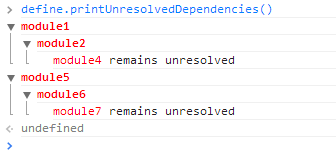
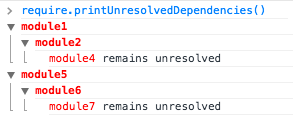
Move define methods to require to be spec-compatible

Changed region(s): [[0.0, 0.0, 1.0, 0.5385], [0.0, 0.5641, 0.7679, 1.0]]

diff --git a/ferdinand.js b/ferdinand.js
@@ -1,5 +1,5 @@
 /**
- * FerdinandJS - v0.5.2 - AMD-lite JavaScript module resolver
+ * FerdinandJS - v0.6.0 - AMD-lite JavaScript module resolver
  * https://github.com/rbirkby/ferdinandJS
  *
  * Supports a subset of AMD with the following restrictions:
@@ -15,7 +15,7 @@
  * Licensed under the MIT License at:
  *     http://www.opensource.org/licenses/mit-license.php
  *
- * @license MIT License (c) copyright 2013-2014 R Birkby 
+ * @license MIT License (c) copyright 2013-2014 R Birkby
  */
 (function (global) {
     "use strict";
@@ -76,18 +76,32 @@
             }
         }
     };
-    global.define.clear = function () {
+    global.require = function (dependencies, callback) {
+        var resolvedDependencies;
+        try {
+            resolvedDependencies = dependencies.map(resolve);
+        } catch (e) {
+            if (e instanceof ResolutionError) {
+                requireQueue.push({ dependencies: dependencies, callback: callback });
+                return;
+            }
+
+            throw e;
+        }
+        callback.apply(this, resolvedDependencies);
+    };
+    global.require.clear = function () {
         cache = {};
         requireQueue = [];
     };
-    global.define.isDefined = function (moduleId) {
+    global.require.isDefined = function (moduleId) {
         return typeof cache[moduleId] !== 'undefined';
     };
-    global.define.unusedModules = function () {
+    global.require.unusedModules = function () {
         return Object.keys(cache)
                      .filter(function (moduleId) { return typeof cache[moduleId].__memoized === 'undefined'; });
     };
-    global.define.unresolvedDependencies = function() {
+    global.require.unresolvedDependencies = function() {
         var unresolvedResolutionChain = [];
 
         var dependencies = {};
@@ -109,8 +123,8 @@
 
         return unresolvedResolutionChain;
     };
-    global.define.printUnresolvedDependencies = function () {
-        global.define.unresolvedDependencies().forEach(printResolutionChain);
+    global.require.printUnresolvedDependencies = function () {
+        global.require.unresolvedDependencies().forEach(printResolutionChain);
     };
     function printResolutionChain(chain) {
         if (chain.length > 1) {
@@ -123,19 +137,4 @@
     }
 
     global.define.amd = {};
-
-    global.require = function (dependencies, callback) {
-        var resolvedDependencies;
-        try {
-            resolvedDependencies = dependencies.map(resolve);
-        } catch (e) {
-            if (e instanceof ResolutionError) {
-                requireQueue.push({ dependencies: dependencies, callback: callback });
-                return;
-            }
-
-            throw e;
-        }
-        callback.apply(this, resolvedDependencies);
-    };
 })(this || (1, eval)('this'));

diff --git a/test/tests.js b/test/tests.js
@@ -4,9 +4,9 @@ var sinon = require("sinon");
 
 describe('ferdinand', function(){
   "use strict";
-  
+
   afterEach(function() {
-    ferdinand.define.clear();
+    ferdinand.require.clear();
     console.warn.restore();
   });
 
@@ -18,7 +18,7 @@ describe('ferdinand', function(){
     it('should define a module', function(){
       ferdinand.define('moduleId', [], function() {});
 
-      assert.ok(ferdinand.define.isDefined('moduleId'));
+      assert.ok(ferdinand.require.isDefined('moduleId'));
     });
 
     it('should throw with missing factory function', function(){
@@ -40,7 +40,7 @@ describe('ferdinand', function(){
       ferdinand.define('moduleId1', [], function() {});
       ferdinand.define('moduleId', ['moduleId1'], function() {});
 
-      assert.ok(ferdinand.define.isDefined('moduleId'));
+      assert.ok(ferdinand.require.isDefined('moduleId'));
     });
 
     it('should cache the factory function', function() {
@@ -123,7 +123,7 @@ describe('ferdinand', function(){
         ferdinand.require(['moduleId'], function() {});
       } catch(e) {}
 
-      assert.throws(function() {ferdinand.require(['moduleId'], function() {}); }); 
+      assert.throws(function() {ferdinand.require(['moduleId'], function() {}); });
     });
   });
 
@@ -132,7 +132,7 @@ describe('ferdinand', function(){
       ferdinand.define('moduleId1', [], function() {});
       ferdinand.define('moduleId', ['moduleId1'], function() {});
 
-      assert.deepEqual(ferdinand.define.unusedModules(), ['moduleId1', 'moduleId']);
+      assert.deepEqual(ferdinand.require.unusedModules(), ['moduleId1', 'moduleId']);
     });
   });
 
@@ -143,7 +143,7 @@ describe('ferdinand', function(){
 
       ferdinand.require(['moduleId'], function() {});
 
-      assert.deepEqual(ferdinand.define.unresolvedDependencies(), [['moduleId','moduleId1','module2']]);
+      assert.deepEqual(ferdinand.require.unresolvedDependencies(), [['moduleId','moduleId1','module2']]);
     });
   });
 });

diff --git a/README.md b/README.md
@@ -30,11 +30,11 @@ Suppose you like to structure your JavaScript with objects and constructor funct
 ```JavaScript
 define('HelloWorldModule', [], function() {
   function HelloWorldModule() {}
-  
+
   HelloWorldModule.prototype.printMessage = function() {
     console.log('Hello World');
   };
-  
+
   return HelloWorldModule;
 });
 
@@ -51,11 +51,11 @@ define('LocalizationModule', [], function() {
 });
 define('HelloWorldModule', ['LocalizationModule'], function(localizationModule) {
   function HelloWorldModule() {}
-  
+
   HelloWorldModule.prototype.printMessage = function() {
     console.log(localizationModule.HelloWorld);
   };
-  
+
   return HelloWorldModule;
 });
 
@@ -108,7 +108,7 @@ FerdinandJS provides 4 mechanisms for discovering failed dependencies:
  * [isDefined](#isdefined)
 
 ### unusedModules
- 
+
 Given the following code:
 ```JavaScript
 define('module1', ['module2'], function() {});
@@ -119,7 +119,7 @@ define('module6', ['module7'], function() {});
 require(['module1'], function () {});
 require(['module5'], function () {});
 ```
-then calling `define.unusedModules()` will return:
+then calling `require.unusedModules()` will return:
 ```JavaScript
 ["module1", "module2", "module3", "module5", "module6"]
 ```
@@ -127,7 +127,7 @@ because module4 and module7 are not defined.
 
 ### printUnresolvedDependencies
 
-It is much more interesting to know which dependencies have been required, but have been unable to be resolved. To find these dependencies, calling `define.printUnresolvedDependencies()` will produce:
+It is much more interesting to know which dependencies have been required, but have been unable to be resolved. To find these dependencies, calling `require.printUnresolvedDependencies()` will produce:
 
 ![Image](docs/printUnresolvedDependencies.png?raw=true)
 
@@ -137,4 +137,4 @@ Called internally by printUnresolvedDependencies, this function returns a list o
 
 ### isDefined
 
-To know whether a module ID has been declared, you can ask FerdinandJS with `define.isDefined('module3')`. For the example above, this returns true, whereas `define.isDefined('module7')` returns false.
+To know whether a module ID has been declared, you can ask FerdinandJS with `require.isDefined('module3')`. For the example above, this returns true, whereas `require.isDefined('module7')` returns false.
